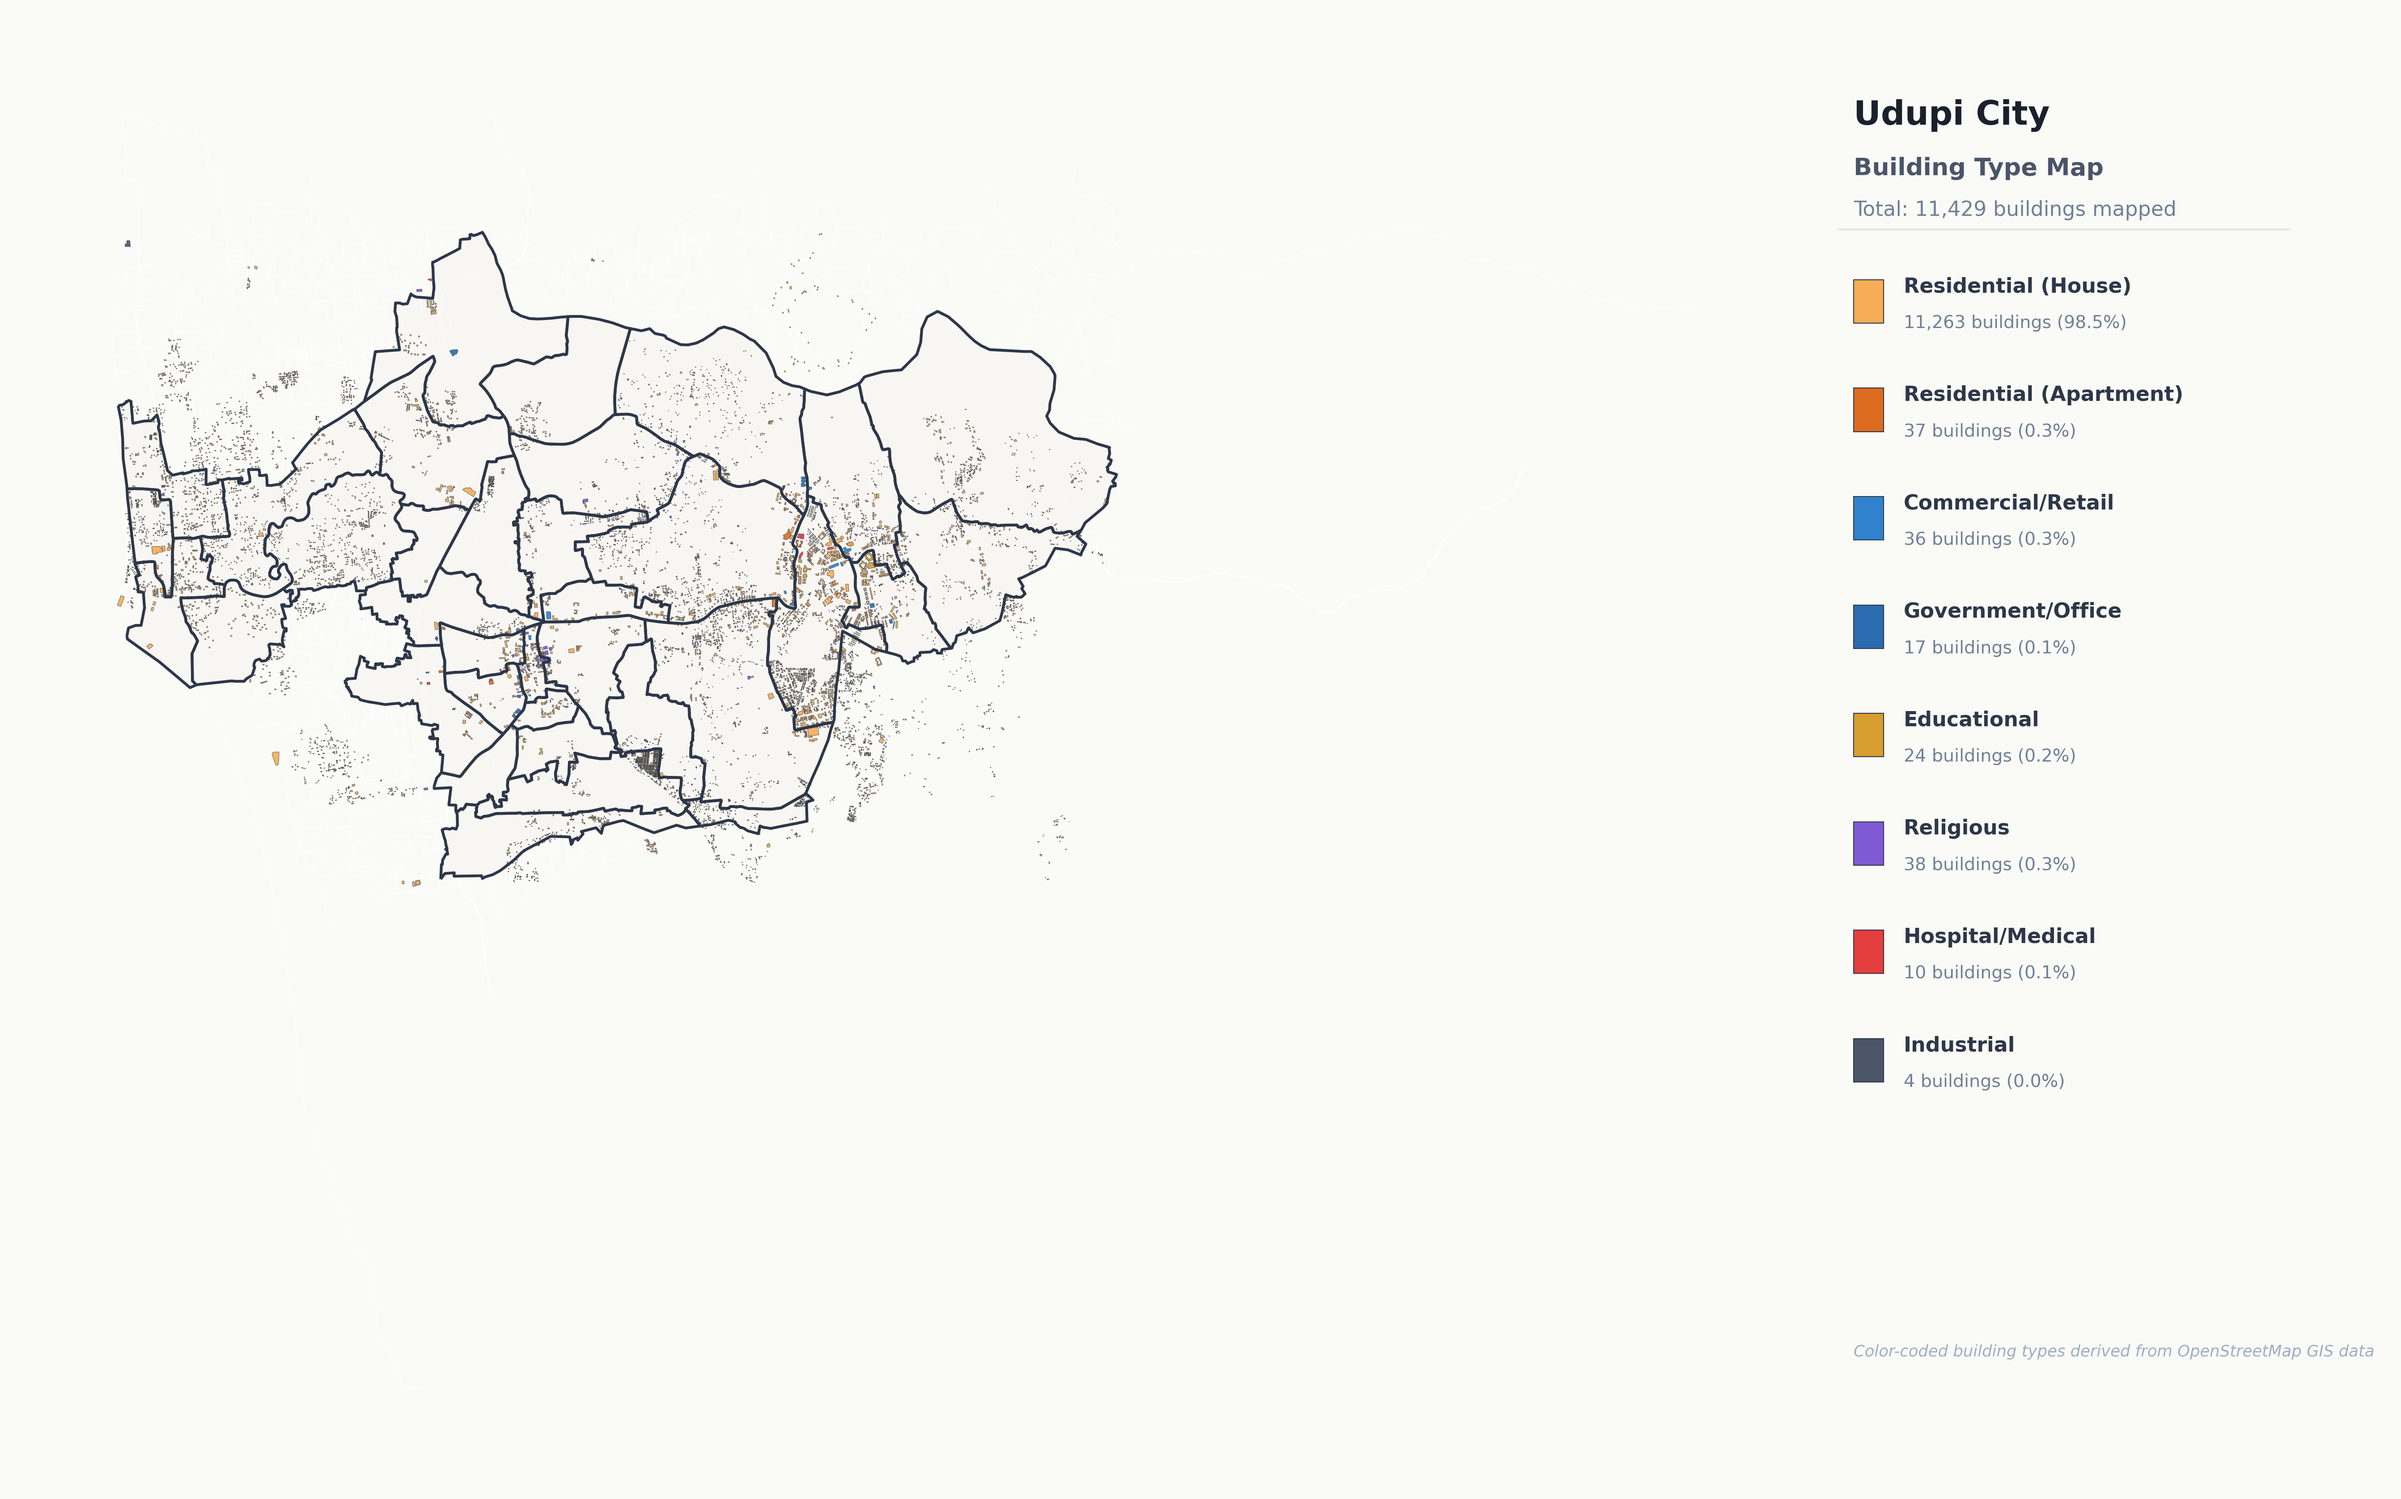
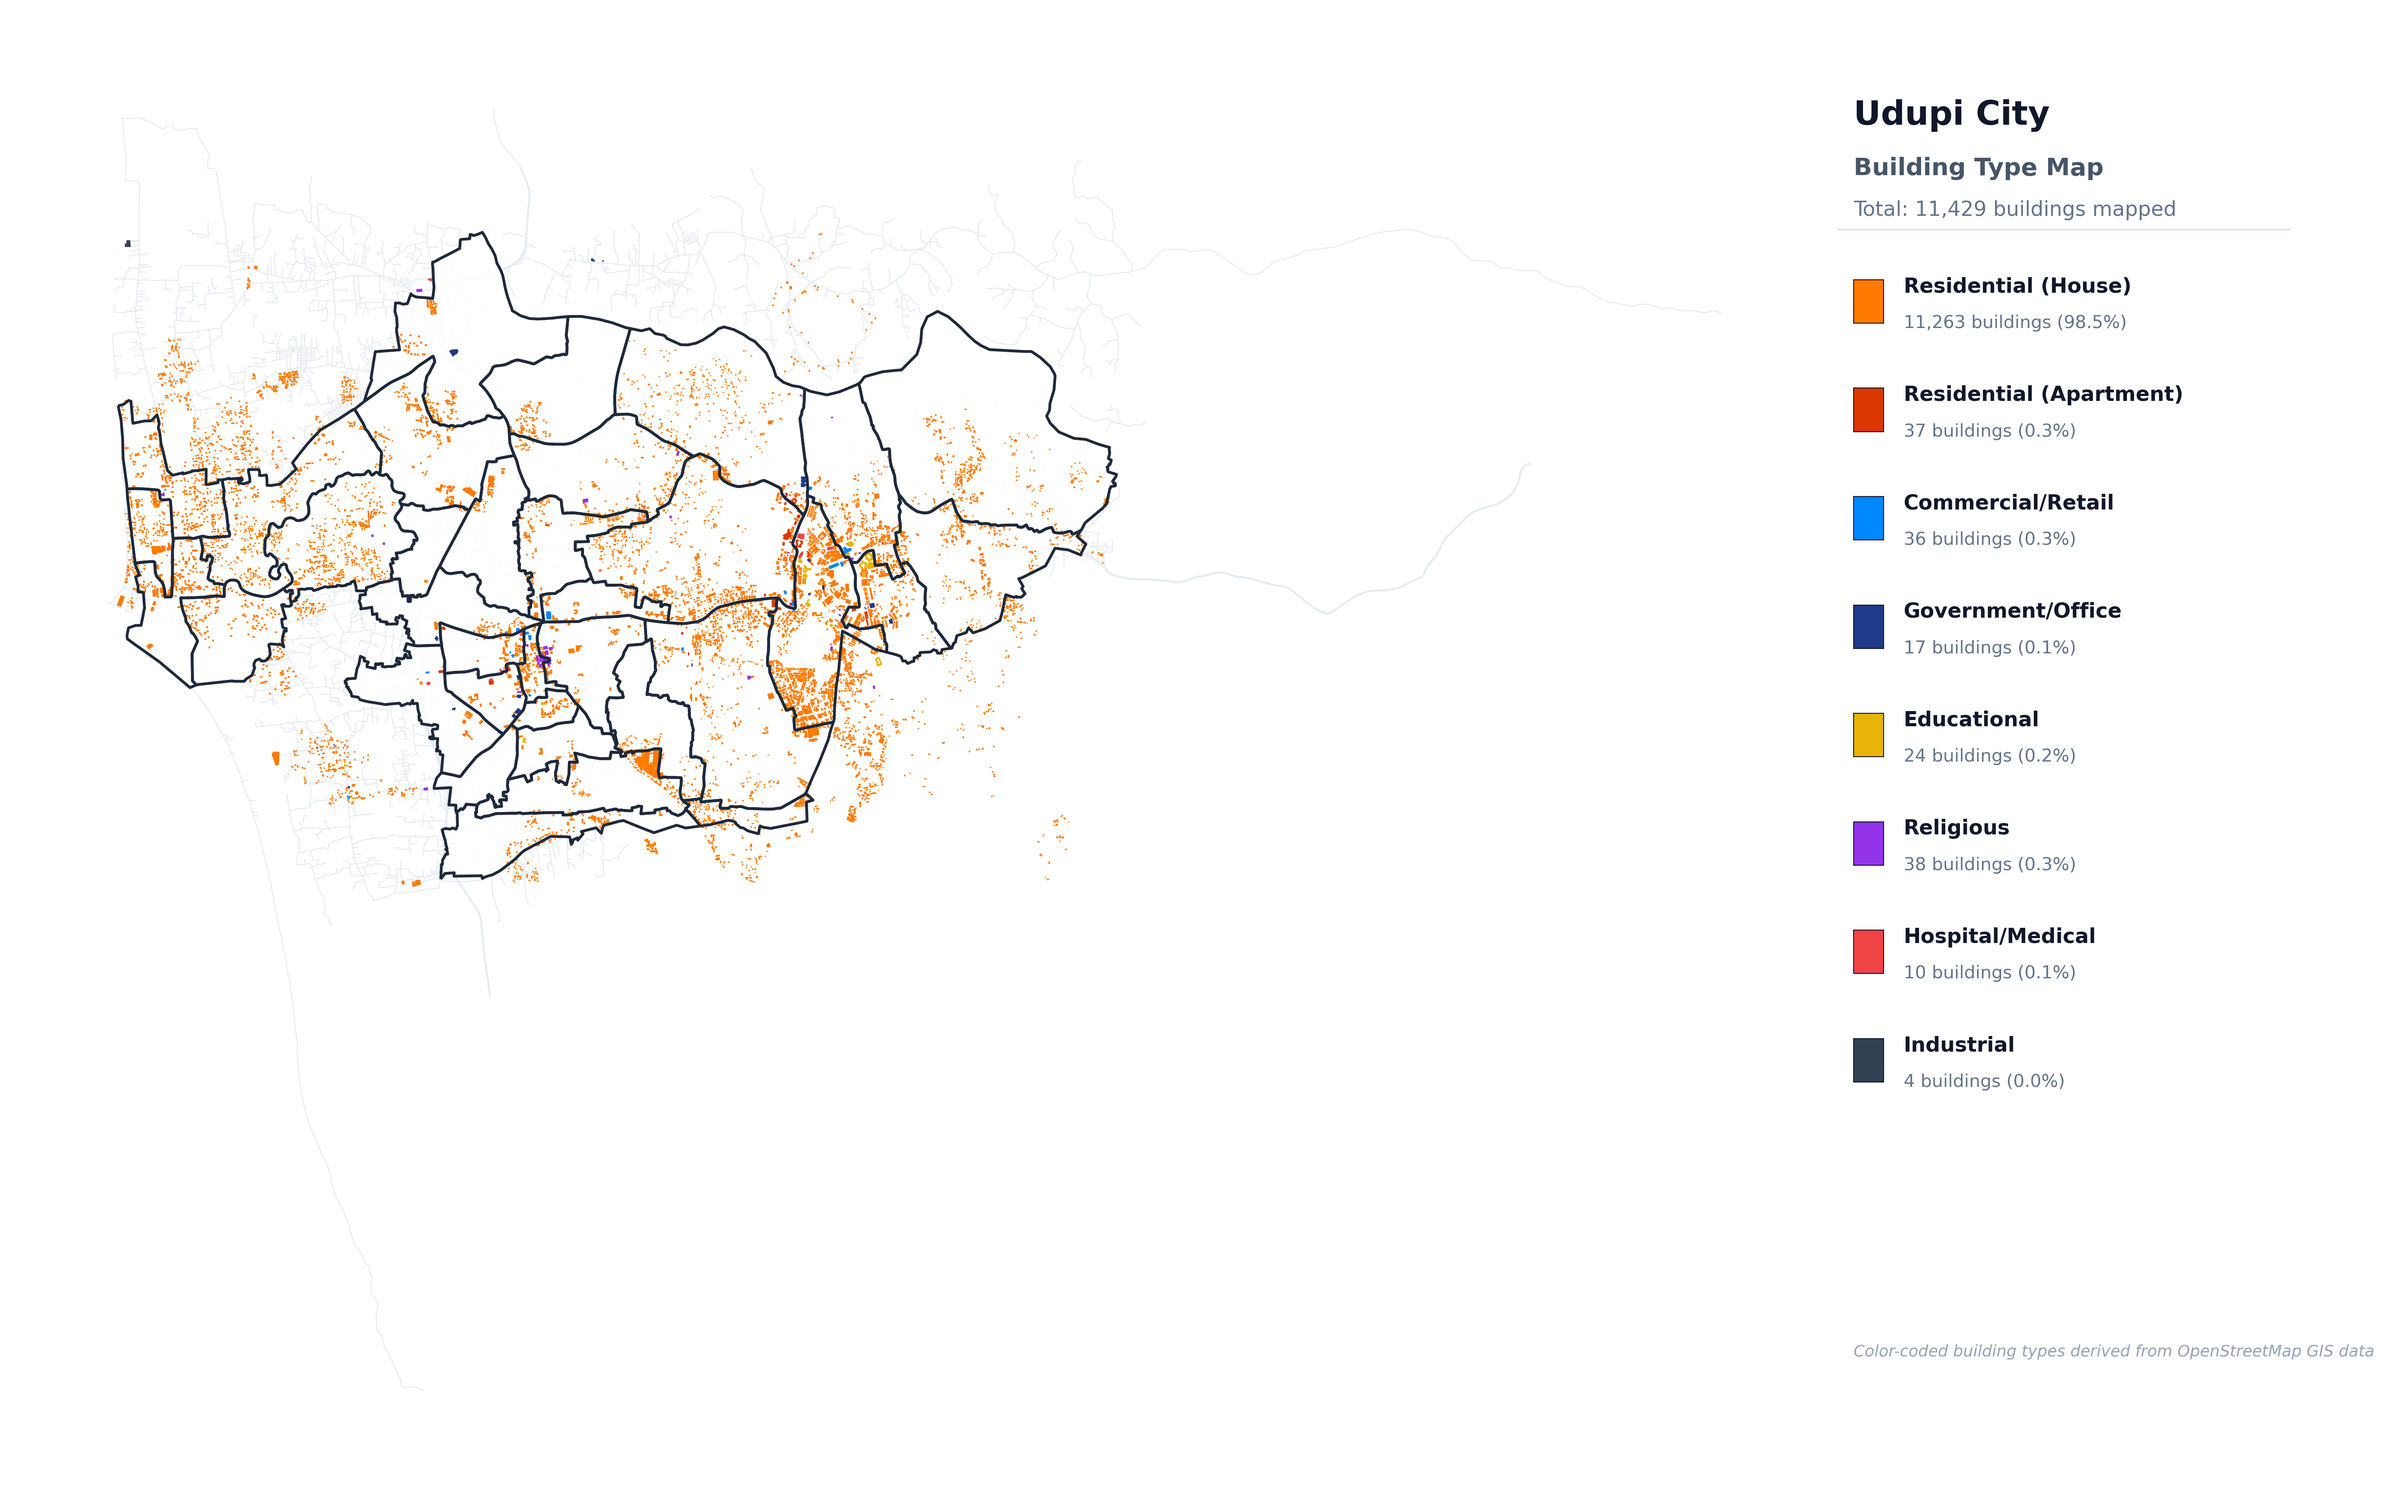
Enhance Udupi building map with vibrant orange residential fills and matching borders to eliminate grey shadows

diff --git a/generate_udupi_building_map.py b/generate_udupi_building_map.py
@@ -81,39 +81,40 @@ counts = buildings['building_type'].value_counts()
 for btype, cnt in counts.items():
     print(f"  {btype:<30} {cnt:>5} ({cnt/len(buildings)*100:.1f}%)")
 
-# Color Scheme (Warm, High Legibility, Premium Map)
+# Color Scheme — VIBRANT ORANGE for Residential (No dark outlines!)
 building_colors = {
-    'Residential (House)':      '#F6AD55', # Warm Orange/Amber (Dominant residential stock)
-    'Residential (Apartment)':  '#DD6B20', # Deep Orange
-    'Commercial/Retail':        '#3182CE', # Sky Blue
-    'Government/Office':        '#2B6CB0', # Deep Blue
-    'Educational':              '#D69E2E', # Golden Yellow
-    'Religious':                '#805AD5', # Purple
-    'Hospital/Medical':         '#E53E3E', # Crimson Red
-    'Industrial':               '#4A5568', # Dark Slate Grey
+    'Residential (House)':      '#FF7A00', # Vibrant Bright Orange
+    'Residential (Apartment)':  '#D93800', # Deep Vibrant Red-Orange
+    'Commercial/Retail':        '#0088FF', # Bright Sky Blue
+    'Government/Office':        '#1E3A8A', # Deep Navy Blue
+    'Educational':              '#EAB308', # Vivid Yellow
+    'Religious':                '#9333EA', # Vivid Purple
+    'Hospital/Medical':         '#EF4444', # Bright Red
+    'Industrial':               '#334155', # Dark Slate
 }
 
-buildings['color'] = buildings['building_type'].map(lambda x: building_colors.get(x, '#F6AD55'))
+buildings['color'] = buildings['building_type'].map(lambda x: building_colors.get(x, '#FF7A00'))
 
 # Generate high resolution map with legend
-fig = plt.figure(figsize=(22, 14), dpi=300, facecolor='#FAFAF7')
+fig = plt.figure(figsize=(22, 14), dpi=300, facecolor='#FFFFFF')
 gs = gridspec.GridSpec(1, 2, width_ratios=[78, 22], wspace=0.01)
 
 # MAP PANEL
 ax_map = fig.add_subplot(gs[0])
-ax_map.set_facecolor('#F0EAE1')
+ax_map.set_facecolor('#F8FAFC')
 
 if roads is not None:
-    roads.plot(ax=ax_map, color='#FFFFFF', linewidth=0.5, alpha=0.7, zorder=1)
+    roads.plot(ax=ax_map, color='#E2E8F0', linewidth=0.6, alpha=0.8, zorder=1)
 
-wards.plot(ax=ax_map, color='#F7F4EF', edgecolor='#CBD5E0', linewidth=1.0, alpha=0.5, zorder=2)
+wards.plot(ax=ax_map, color='#FFFFFF', edgecolor='#CBD5E1', linewidth=0.8, alpha=0.9, zorder=2)
 
 for btype, color in building_colors.items():
     subset = buildings[buildings['building_type'] == btype]
     if len(subset) > 0:
-        subset.plot(ax=ax_map, color=color, edgecolor='#2D374822', linewidth=0.2, alpha=0.9, zorder=3)
+        # Use matching color for edges to eliminate grey shadow effect!
+        subset.plot(ax=ax_map, color=color, edgecolor=color, linewidth=0.4, alpha=1.0, zorder=3)
 
-wards.boundary.plot(ax=ax_map, color='#2D3748', linewidth=1.5, zorder=10)
+wards.boundary.plot(ax=ax_map, color='#1E293B', linewidth=1.5, zorder=10)
 ax_map.set_axis_off()
 
 # LEGEND PANEL
@@ -123,9 +124,9 @@ ax_leg.set_xlim(0, 1)
 ax_leg.set_ylim(0, 1)
 ax_leg.set_axis_off()
 
-ax_leg.text(0.08, 0.95, 'Udupi City', fontsize=18, fontweight='bold', color='#1A202C', transform=ax_leg.transAxes, va='top')
-ax_leg.text(0.08, 0.91, 'Building Type Map', fontsize=13, fontweight='semibold', color='#4A5568', transform=ax_leg.transAxes, va='top')
-ax_leg.text(0.08, 0.88, f"Total: {len(buildings):,} buildings mapped", fontsize=11, color='#718096', transform=ax_leg.transAxes, va='top')
+ax_leg.text(0.08, 0.95, 'Udupi City', fontsize=18, fontweight='bold', color='#0F172A', transform=ax_leg.transAxes, va='top')
+ax_leg.text(0.08, 0.91, 'Building Type Map', fontsize=13, fontweight='semibold', color='#475569', transform=ax_leg.transAxes, va='top')
+ax_leg.text(0.08, 0.88, f"Total: {len(buildings):,} buildings mapped", fontsize=11, color='#64748B', transform=ax_leg.transAxes, va='top')
 ax_leg.plot([0.05, 0.95], [0.86, 0.86], color='#E2E8F0', linewidth=1.2, transform=ax_leg.transAxes)
 
 y = 0.82
@@ -134,16 +135,16 @@ for btype, color in building_colors.items():
     pct = (cnt / len(buildings)) * 100
     
     # Legend patch box
-    rect = plt.Rectangle((0.08, y - 0.025), 0.06, 0.03, facecolor=color, edgecolor='#2D3748', linewidth=0.5, transform=ax_leg.transAxes)
+    rect = plt.Rectangle((0.08, y - 0.025), 0.06, 0.03, facecolor=color, edgecolor='#0F172A', linewidth=0.5, transform=ax_leg.transAxes)
     ax_leg.add_patch(rect)
     
-    ax_leg.text(0.18, y, btype, fontsize=11, fontweight='bold', color='#2D3748', transform=ax_leg.transAxes, va='center')
-    ax_leg.text(0.18, y - 0.025, f"{cnt:,} buildings ({pct:.1f}%)", fontsize=9.5, color='#718096', transform=ax_leg.transAxes, va='center')
+    ax_leg.text(0.18, y, btype, fontsize=11, fontweight='bold', color='#0F172A', transform=ax_leg.transAxes, va='center')
+    ax_leg.text(0.18, y - 0.025, f"{cnt:,} buildings ({pct:.1f}%)", fontsize=9.5, color='#64748B', transform=ax_leg.transAxes, va='center')
     y -= 0.075
 
-ax_leg.text(0.08, 0.08, 'Color-coded building types derived from OpenStreetMap GIS data', fontsize=8.5, color='#A0AEC0', style='italic', transform=ax_leg.transAxes)
+ax_leg.text(0.08, 0.08, 'Color-coded building types derived from OpenStreetMap GIS data', fontsize=8.5, color='#94A3B8', style='italic', transform=ax_leg.transAxes)
 
 output_img = 'public/building_map_legend.png'
-plt.savefig(output_img, dpi=300, bbox_inches='tight', pad_inches=0.2, facecolor='#FAFAF7')
+plt.savefig(output_img, dpi=300, bbox_inches='tight', pad_inches=0.2, facecolor='#FFFFFF')
 plt.close()
-print(f"Saved updated Udupi building map to {output_img}")
+print(f"Saved updated vibrant Udupi building map to {output_img}")
